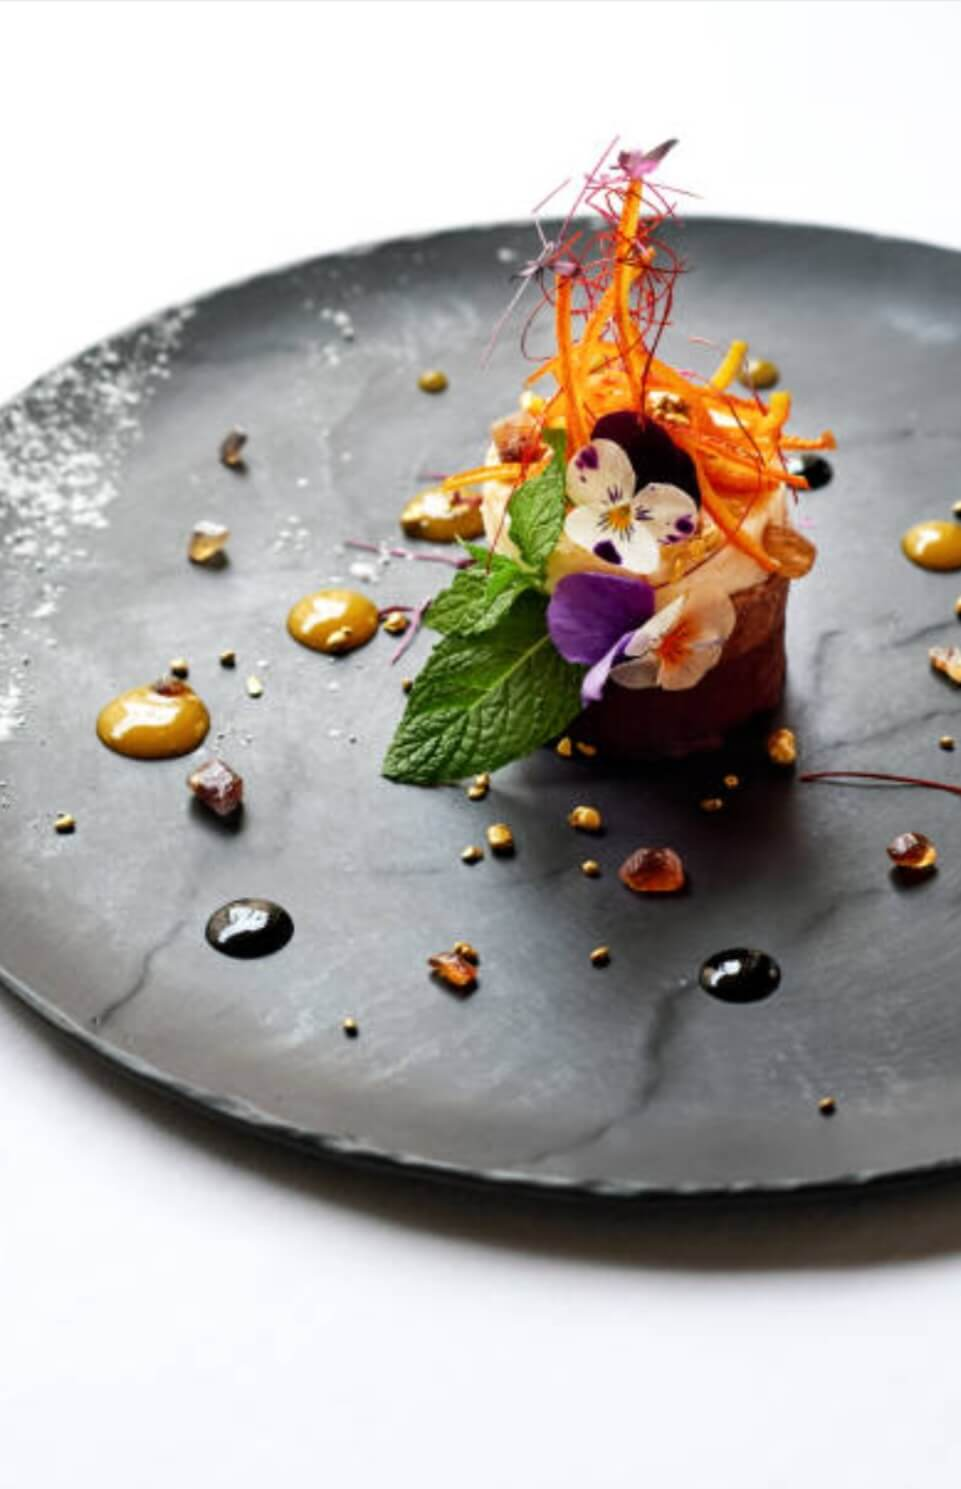
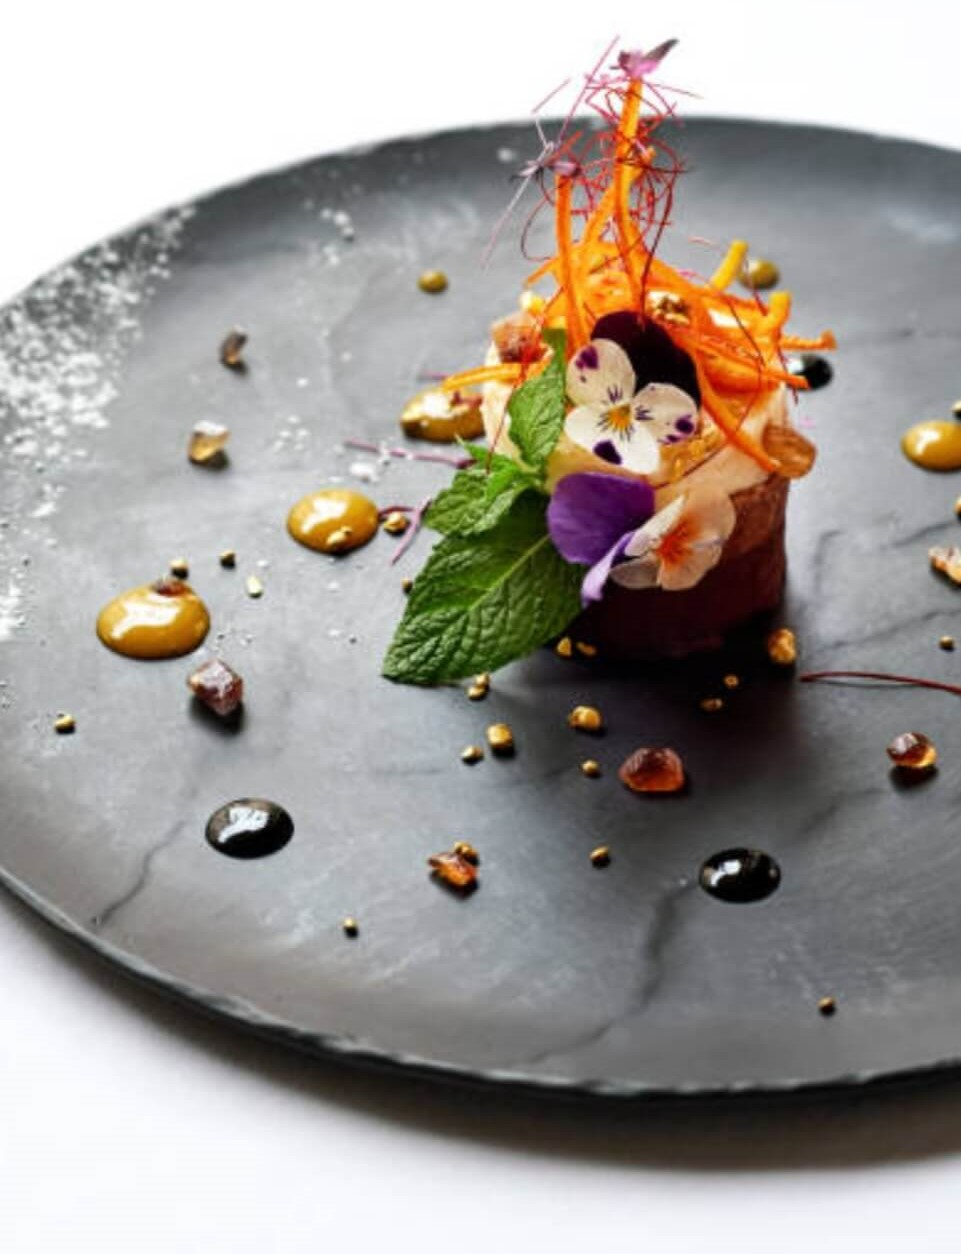
add history page

diff --git a/public/styles/main.css b/public/styles/main.css
@@ -4,19 +4,34 @@
 html, body {
     padding: 0;
     margin: 0;
+    scroll-behavior: smooth;
 }
 
 body{
     font-family: 'Lora', serif;
 }
-
-  <!-- HOMEPAGE START -->
-
-img1{
-    height: 100%;
-    width: 100%;
+    <!-- HOMEPAGE START -->
+.img1{
+    display: flex;
+    flex-direction:center;
+    justify-content:center;
+    height: 25vw;
 }
-.name{
-    font-size: 60%;
-    color=black;
+     <!-- HOMEPAGE END -->
+
+    <!-- HISTORY START -->
+
+.img2{
+    display: flex;
+    flex-direction:center;
+    justify-content:center;
+    height: 25vw;
 }
+.img3{
+    display: flex;
+    justify-content:center;
+    height: 50%;
+
+}
+
+
